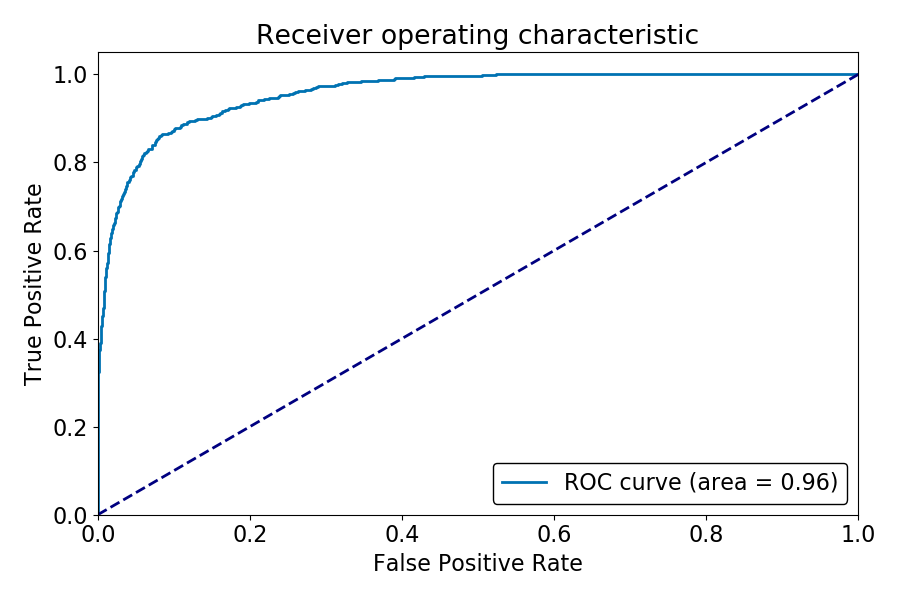
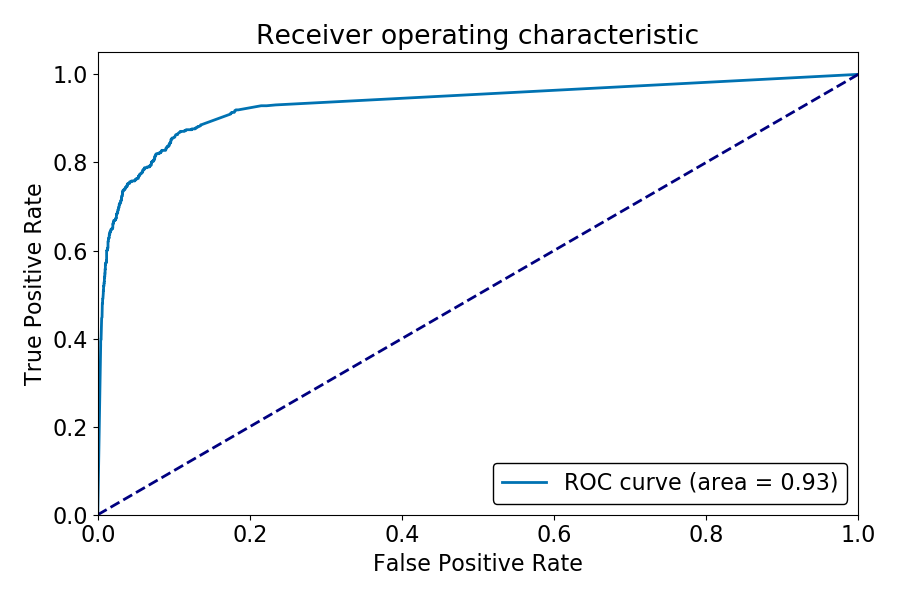
ran xgboost

diff --git a/Notebooks/XGBoost_TrainedEfficientNet.py b/Notebooks/XGBoost_TrainedEfficientNet.py
@@ -146,7 +146,7 @@ class ValidDataset(torch.utils.data.Dataset):
 
 
 # Use the data loader.
-
+'''
 batch_size = 12
 path = "../../data-512/512x512-dataset-melanoma/512x512-dataset-melanoma/"
 
@@ -182,7 +182,8 @@ for i, (images, meta_data, labels) in enumerate(tqdm(train_loader)):
 XGB_data = pd.DataFrame(data=X)
 XGB_data['targets'] = y
 XGB_data.to_csv("XGB_ENET_train_all.csv", index=False)
-#XGB_data = pd.read_csv("XGB_ENET_train.csv")
+'''
+XGB_data = pd.read_csv("XGB_ENET_train_all.csv")
 
 X = np.array(XGB_data.values[:, :-1], np.float32)
 y = np.array(XGB_data['targets'].values, np.float32)
@@ -206,17 +207,13 @@ def make_weights(targets, nclasses=2):
 
     return np.array(weight)
 
+XGB_data = pd.read_csv("XGB_ENET_val_all.csv")
+Xval = np.array(XGB_data.values[:, :-1], np.float32)
+yval = np.array(XGB_data['targets'].values, np.float32)
 
-# In[10]:
+dtrain = xgb.DMatrix(X, label=y) #, weight=w)
+dval = xgb.DMatrix(Xval, label=yval)
 
-
-X_train, X_val, y_train, y_val = train_test_split(X, y, test_size=0.2)
-
-# weight positive examples more heavily
-w = make_weights(y_train)
-
-dtrain = xgb.DMatrix(X_train, label=y_train) #, weight=w)
-dval = xgb.DMatrix(X_val, label=y_val)
 
 # booster params
 param = {'max_depth': 16, 'eta': .05, 'objective': 'binary:logistic'}
@@ -248,76 +245,10 @@ bst.save_model("../Models/xgb_ENET_all.model")
 # prediction
 ypred = bst.predict(dval)
 
-fpr, tpr, _ = roc_curve(y_val, ypred)
-roc_auc = auc(fpr, tpr)
-
-plt.style.use('seaborn-colorblind')
-plt.rcParams.update({'font.size': 16,
-                     'legend.framealpha':1,
-                     'legend.edgecolor':'inherit'})
-plt.figure(figsize=(9, 6))
-
-lw = 2
-plt.plot(fpr, tpr,
-         lw=lw, label='ROC curve (area = %0.2f)' % roc_auc)
-plt.plot([0, 1], [0, 1], color='navy', lw=lw, linestyle='--')
-plt.xlim([0.0, 1.0])
-plt.ylim([0.0, 1.05])
-plt.xlabel('False Positive Rate')
-plt.ylabel('True Positive Rate')
-plt.title('Receiver operating characteristic')
-plt.legend(loc="lower right")
-
-plt.tight_layout()
-#plt.show()
-plt.close()
-
-# In[13]:
-
-
-batch_size = 4
-valid_dataset = ValidDataset(val_df, path)
-valid_loader = torch.utils.data.DataLoader(dataset=valid_dataset,
-                                           batch_size=batch_size)
-
-model = model.eval()
-for i, (images, meta_data, labels) in enumerate(tqdm(valid_loader)):
-    images = images.to(device)
-
-    # Forward pass
-    embed = model.embedding(images)
-    nn_pred = model.output(embed).detach().cpu().numpy()
-    embedding = embed.detach().cpu().numpy()
-
-    # determine NN features for the set of images
-    batch_features = np.concatenate((embedding, meta_data.numpy(), nn_pred), axis=1)
-
-    # append the dataset
-    try:
-        Xval = np.concatenate((Xval, batch_features), 0)
-        yval = np.append(yval, labels.numpy())
-    except:
-        Xval = batch_features
-        yval = labels.numpy()
-
-XGB_data = pd.DataFrame(data=Xval)
-XGB_data['targets'] = yval
-XGB_data.to_csv("XGB_ENET_val_all.csv", index=False)
-
-XGB_data = pd.read_csv("XGB_ENET_val_all.csv")
-Xval = np.array(XGB_data.values[:, :-1], np.float32)
-yval = np.array(XGB_data['targets'].values, np.float32)
-
-
-# In[14]:
-
-
-dtest = xgb.DMatrix(Xval)
-ypred = bst.predict(dtest)
-
 fpr, tpr, _ = roc_curve(yval, ypred)
 roc_auc = auc(fpr, tpr)
 
+# determine NN features for the set of image
 plt.style.use('seaborn-colorblind')
 plt.rcParams.update({'font.size': 16,
                      'legend.framealpha':1,
